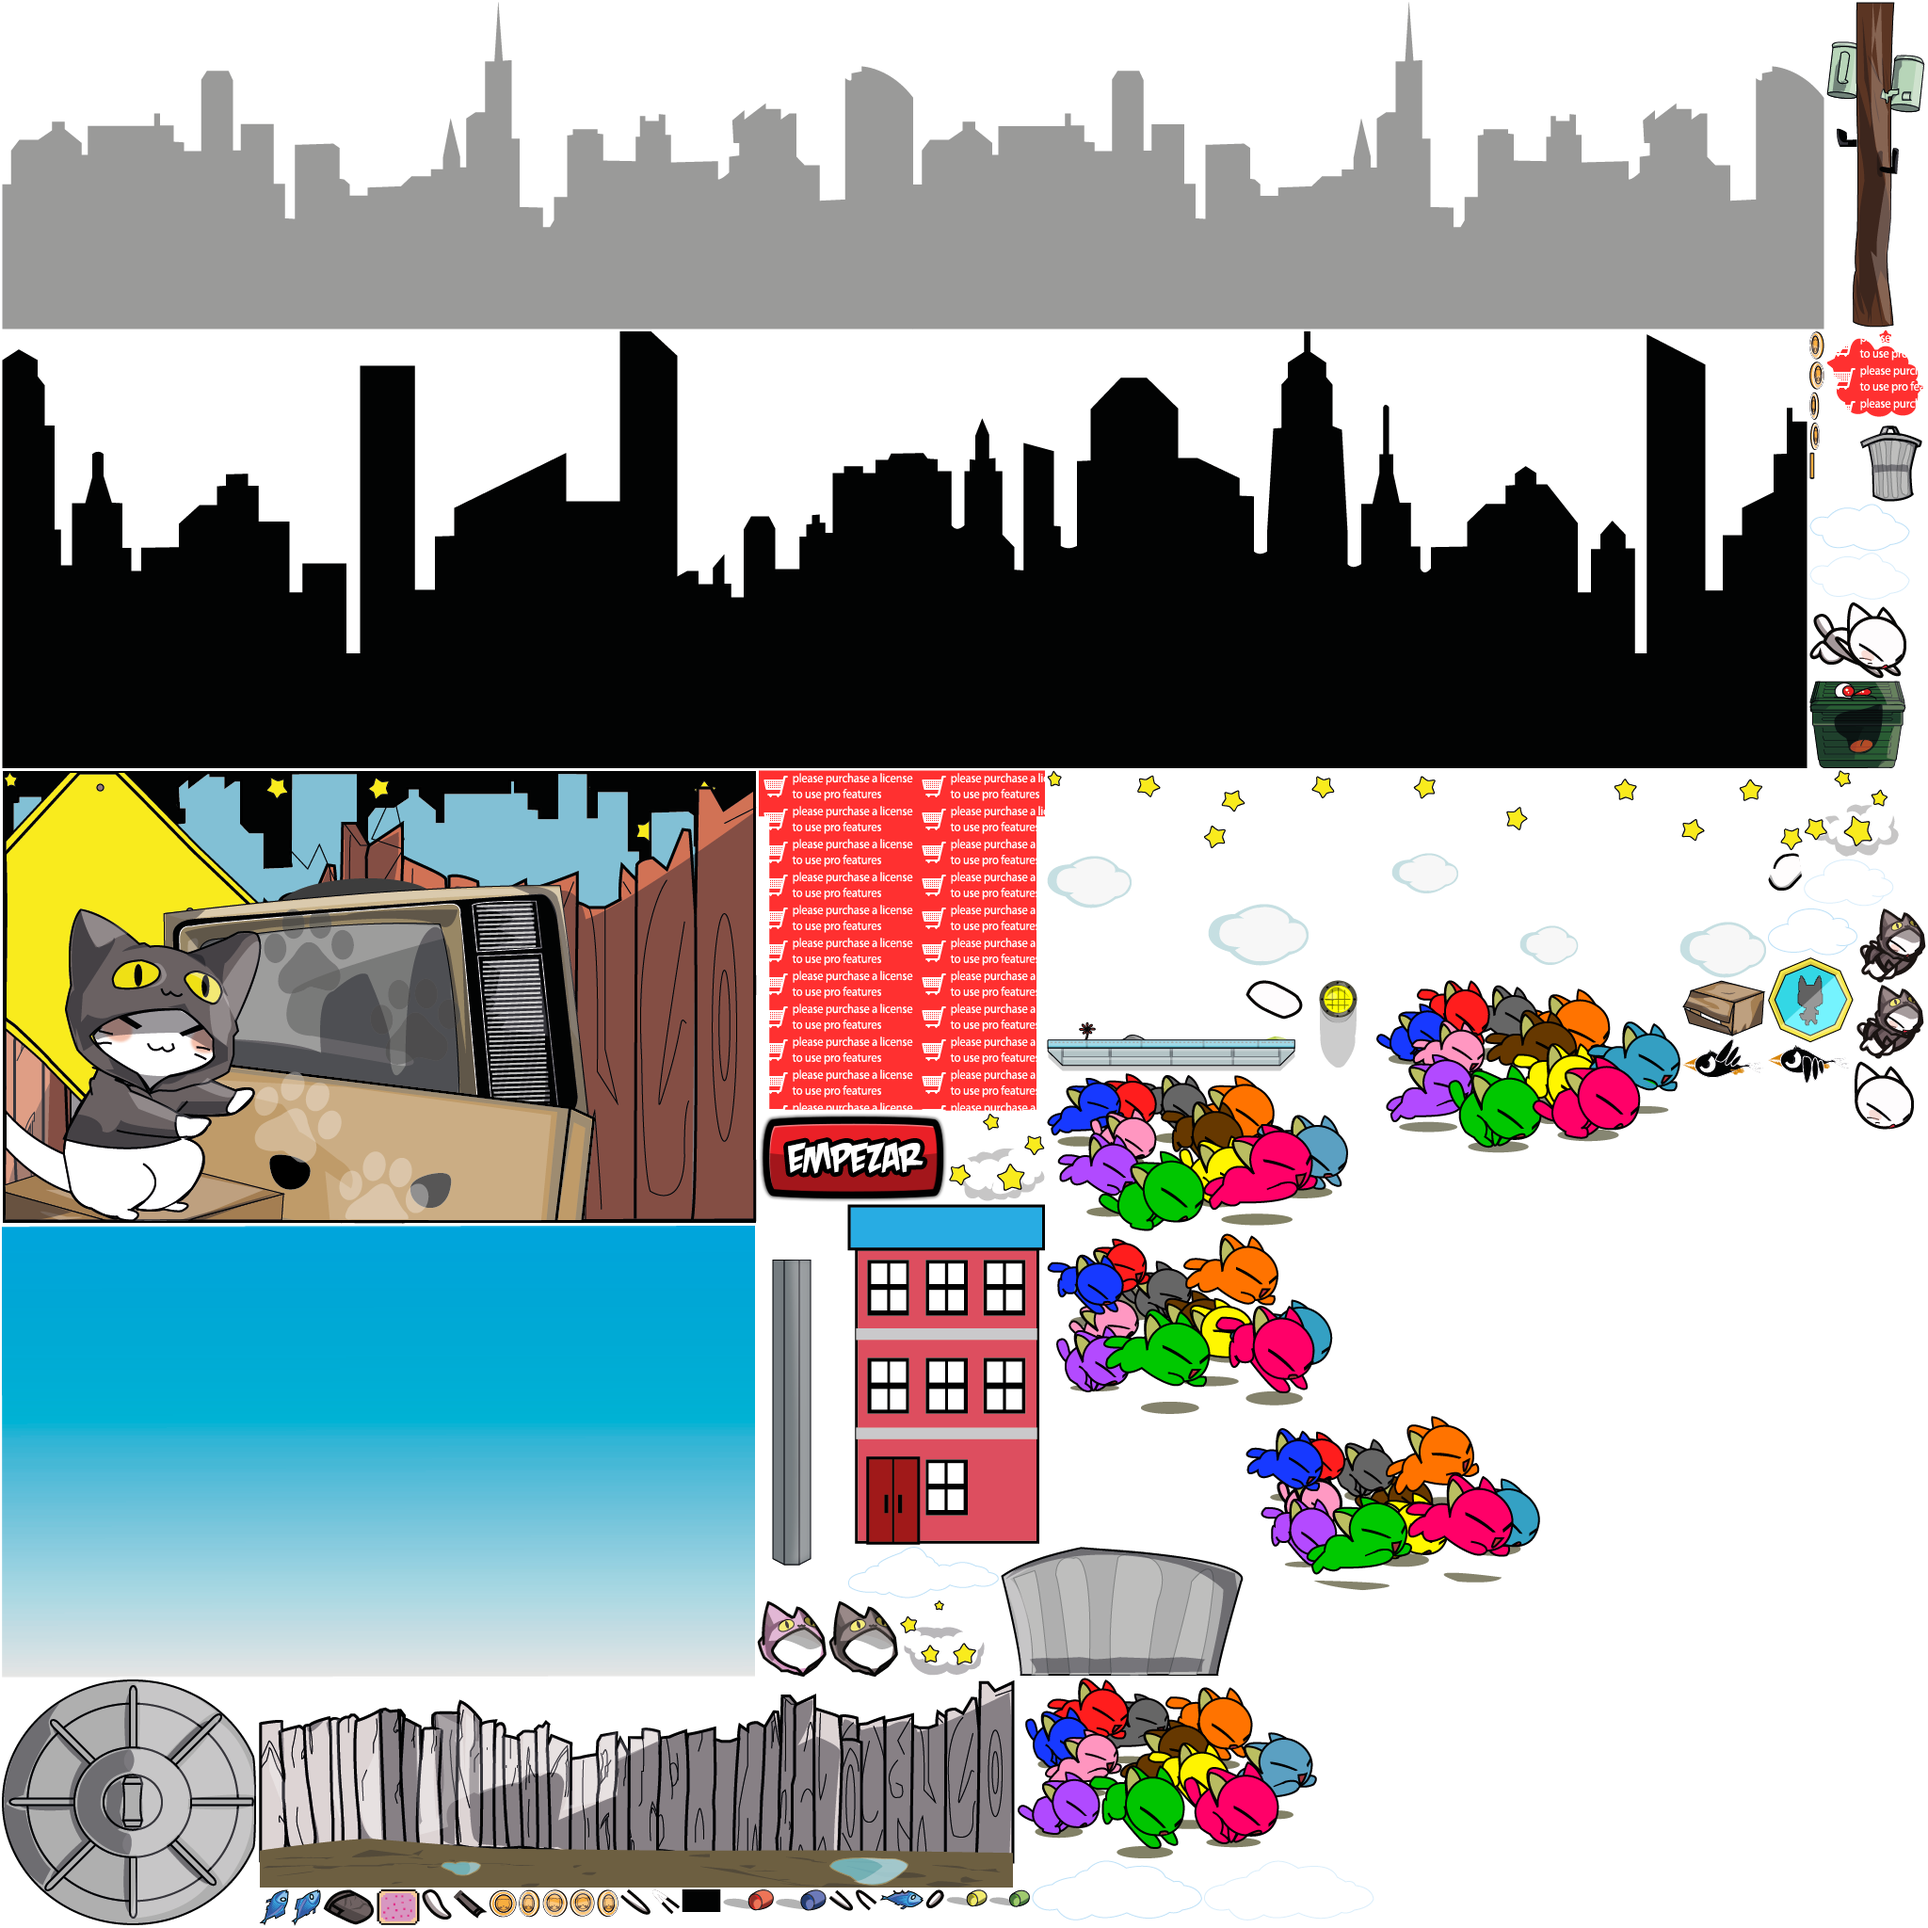
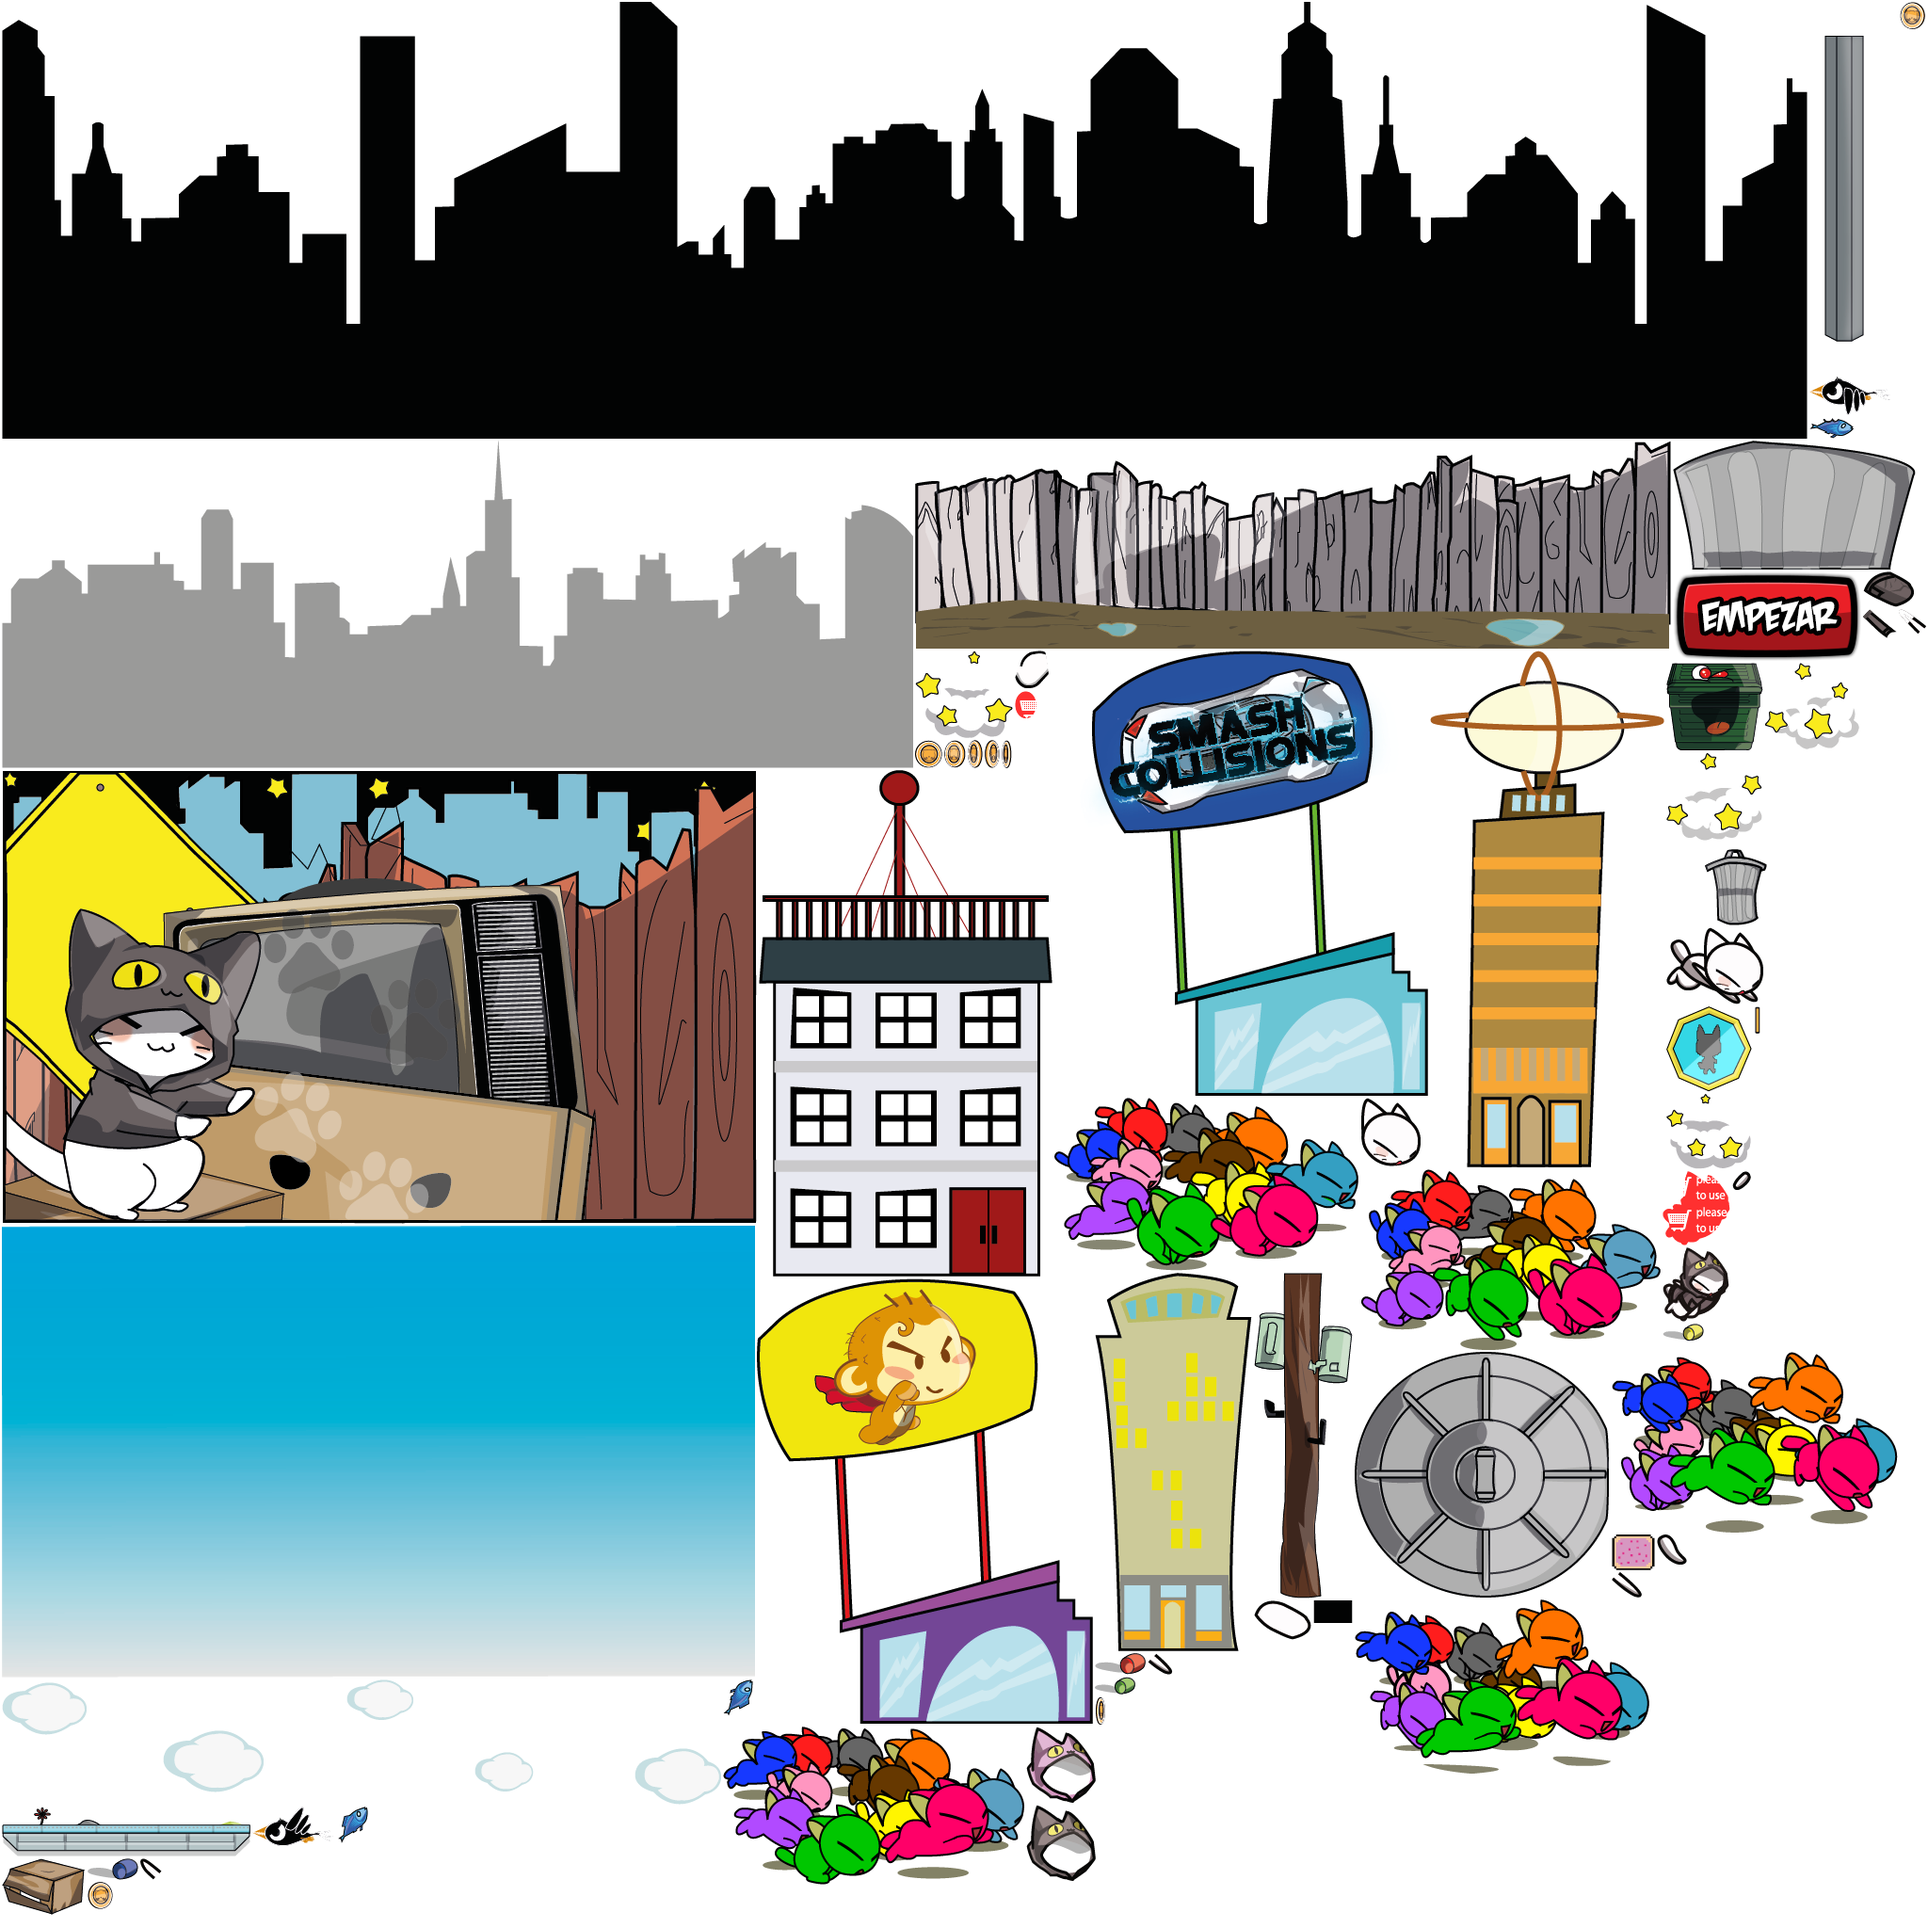
nuevas imagenes

diff --git a/Shoppu/src/com/me/mygdxgame/Assets.java b/Shoppu/src/com/me/mygdxgame/Assets.java
@@ -52,6 +52,9 @@ public class Assets {
 	public static AtlasRegion cajacarton;
 	public static AtlasRegion edificio1;
 	public static AtlasRegion edificio2;
+	public static AtlasRegion edificio3;
+	public static AtlasRegion edificio4;
+	public static AtlasRegion edificio5;
 	public static AtlasRegion lata1;
 	public static AtlasRegion lata2;
 	public static AtlasRegion lata3;
@@ -179,25 +182,22 @@ public class Assets {
 		Barandal = atlas.findRegion("barandal");
 		botebasura = atlas.findRegion("botebasura");
 		cajacarton = atlas.findRegion("cajacarton");
-		edificio1 = atlas.findRegion("edificio1");
-		edificio2 = atlas.findRegion("edificio2");
+		edificio1 = atlas.findRegion("edificio2");
+		edificio2 = atlas.findRegion("edificio3");
+		edificio3 = atlas.findRegion("edificio4");
+		edificio4 = atlas.findRegion("edificio5");
+		edificio5 = atlas.findRegion("edificio6");
+		
 		lata1 = atlas.findRegion("lata1");
 		lata2 = atlas.findRegion("lata2");
 		lata3 = atlas.findRegion("lata3");
 		lata4 = atlas.findRegion("lata4");
-		nube1 = atlas.findRegion("nube1");
-		nube2 = atlas.findRegion("nube2");
-		nube3 = atlas.findRegion("nube3");
-		nube4 = atlas.findRegion("nube4");
-		nube5 = atlas.findRegion("nube5");
-		nube6 = atlas.findRegion("nube6");
-		nube7 = atlas.findRegion("nube7");
 		pisocemento = atlas.findRegion("pisocemento");
 		pisotierra = atlas.findRegion("pisoparallax");
 		postecemento = atlas.findRegion("postecemento");
 		
 		//-----------------------------------
-		ParallaxLayer edifBlanco = new ParallaxLayer(atlas.findRegion("fondoedificio1"), new Vector2(3, 0), new Vector2(0, 100), new Vector2(-1, 700), 1936, 348);
+		ParallaxLayer edifBlanco = new ParallaxLayer(atlas.findRegion("fondoedificio1"), new Vector2(3, 0), new Vector2(0, 100), new Vector2(-1, 700), 968, 348);
 		ParallaxLayer edifNegro = new ParallaxLayer(atlas.findRegion("fondoedificio"), new Vector2(4, 0), new Vector2(0, 0), new Vector2(-3, 700), 1918, 464);
 		
 		ParallaxLayer as[] = new ParallaxLayer[] { edifBlanco,edifNegro};

diff --git a/Shoppu/src/com/me/game/WorldGameRender.java b/Shoppu/src/com/me/game/WorldGameRender.java
@@ -190,12 +190,32 @@ public class WorldGameRender {
 		for (int i = 0; i < length; i++) {
 			Edificio oEdi = oWorld.arrEdificio.get(i);
 			TextureRegion keyframe;
-
+			if(oEdi.num == 0)
+			{
 			// true es que la aniimacion se repeteria muchas veces
-			keyframe = Assets.edificio2;
+			keyframe = Assets.edificio1;
+			}
+			else if(oEdi.num == 1)
+			{
+	// true es que la aniimacion se repeteria muchas veces
+				keyframe = Assets.edificio2;
+			}else if(oEdi.num == 2)
+			{
+	// true es que la aniimacion se repeteria muchas veces
+				keyframe = Assets.edificio3;
+			}else if(oEdi.num == 3)
+			{
+	// true es que la aniimacion se repeteria muchas veces
+				keyframe = Assets.edificio4;
+			}
+			else 
+			{
+	// true es que la aniimacion se repeteria muchas veces
+				keyframe = Assets.edificio5;
+			}
 
 			batcher.draw(keyframe, oEdi.posicion.x - 1.4f,
-					oEdi.posicion.y - 1.81f, 3.04f, 3.62f);
+					oEdi.posicion.y - 2.245f, 3.04f, 5.49f);
 		}
 	}
 

diff --git a/Shoppu/src/com/me/objetos/Edificio.java b/Shoppu/src/com/me/objetos/Edificio.java
@@ -1,5 +1,6 @@
 package com.me.objetos;
 
+import com.badlogic.gdx.math.MathUtils;
 import com.badlogic.gdx.math.Vector2;
 import com.badlogic.gdx.physics.box2d.Body;
 import com.me.objetos.Poste.State;
@@ -14,6 +15,7 @@ public class Edificio {
 		public Vector2 velocidad;
 		public float state_time;
 		public static float VELOCIDAD_X = -2.7f;
+		public int num = MathUtils.random(4);
 		
 		public Edificio(float x, float y){
 			posicion = new Vector2(x,y);
